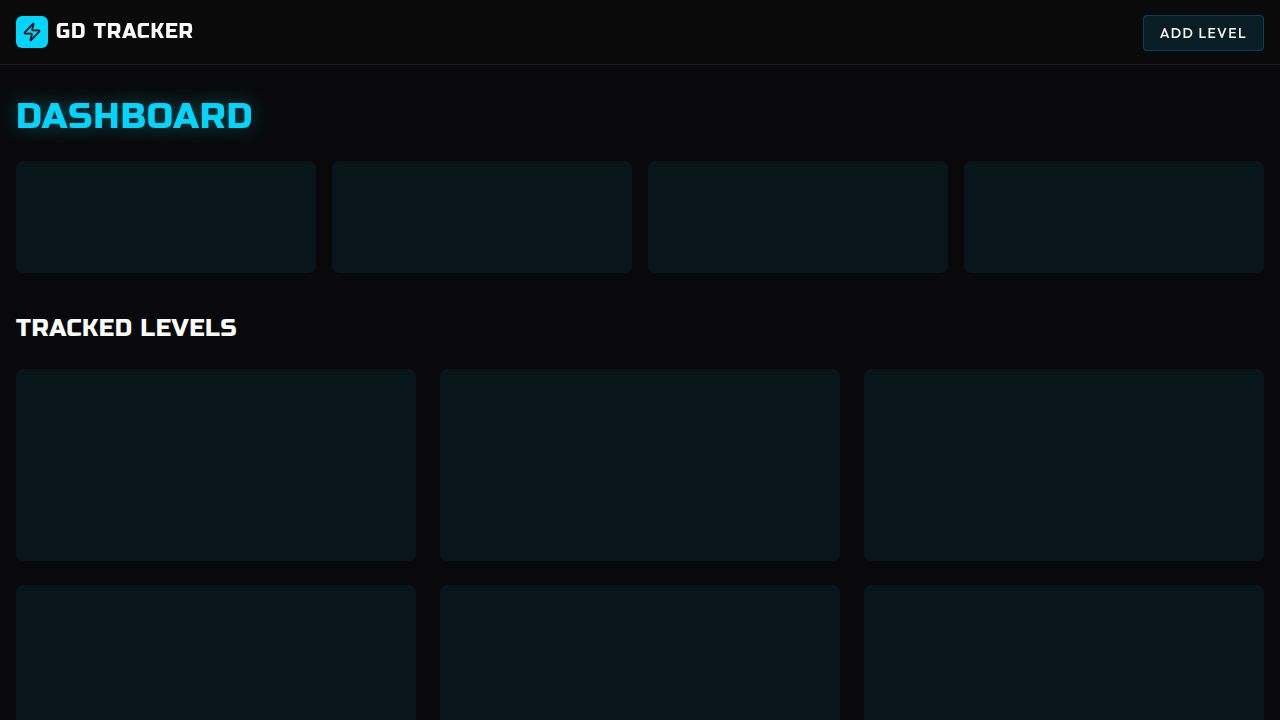
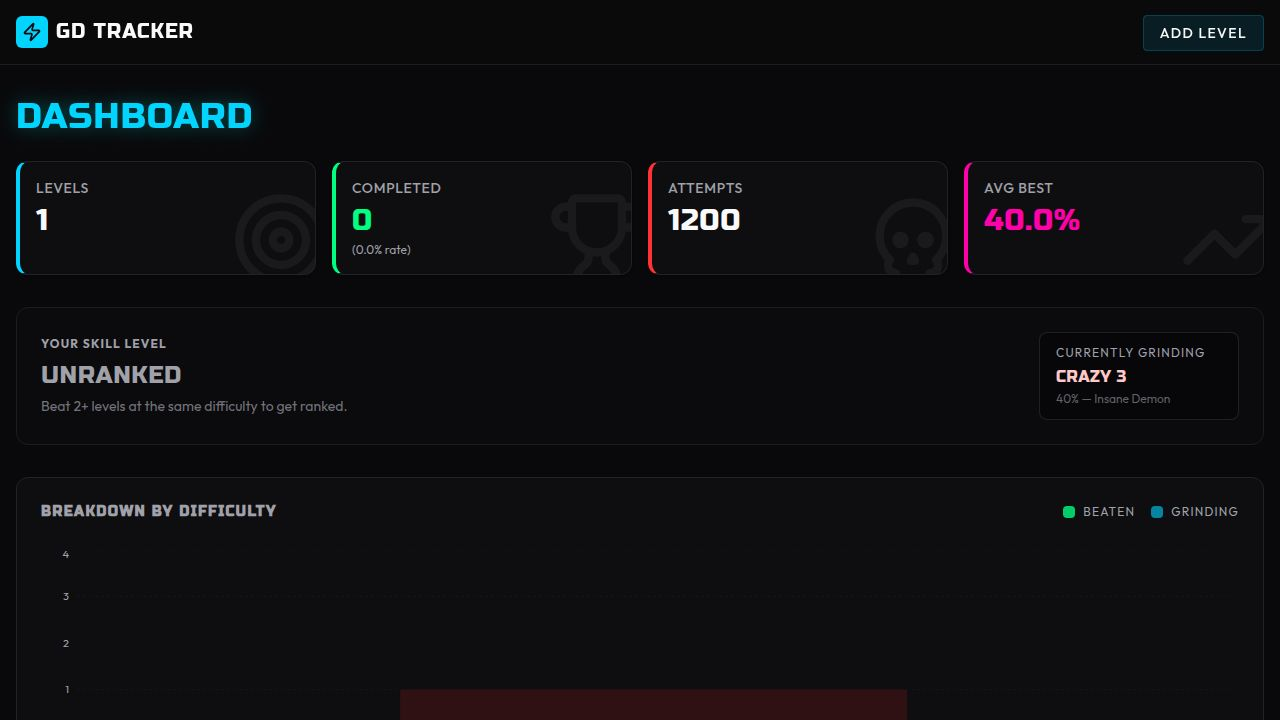
Add delete functionality to level cards and back button to add level page
Implement a delete button on level cards for direct removal and add a "Back to Dashboard" button on the NewLevel page for easier navigation.

Replit-Commit-Author: Agent
Replit-Commit-Session-Id: 0a5a899b-dd4e-4287-b68f-efd19cb1f103
Replit-Commit-Checkpoint-Type: full_checkpoint
Replit-Commit-Event-Id: c5476dd9-5cd5-4e65-bee5-8ab45e2819e8
Replit-Commit-Screenshot-Url: https://storage.googleapis.com/screenshot-production-us-central1/281e8228-58a1-4af7-82b8-7efde34057ee/0a5a899b-dd4e-4287-b68f-efd19cb1f103/FSuPnl9
Replit-Helium-Checkpoint-Created: true

diff --git a/artifacts/gd-tracker/src/components/LevelCard.tsx b/artifacts/gd-tracker/src/components/LevelCard.tsx
@@ -3,47 +3,69 @@ import { Card, CardContent } from "@/components/ui/card";
 import { DifficultyBadge } from "./DifficultyBadge";
 import { ProgressBar } from "./ProgressBar";
 import { Link } from "wouter";
-import { Star, CheckCircle } from "lucide-react";
+import { Star, CheckCircle, Trash2 } from "lucide-react";
 
-export function LevelCard({ level }: { level: Level }) {
+interface LevelCardProps {
+  level: Level;
+  onDelete?: (id: number) => void;
+}
+
+export function LevelCard({ level, onDelete }: LevelCardProps) {
   return (
-    <Link href={`/levels/${level.id}`} className="block group">
-      <Card className="bg-card border-card-border hover:border-primary/50 transition-all duration-300 group-hover:glow-primary relative overflow-hidden">
-        {level.isCompleted && (
-          <div className="absolute top-0 right-0 w-16 h-16 pointer-events-none">
-            <div className="absolute top-4 -right-6 bg-accent text-accent-foreground font-display text-xs px-8 py-1 rotate-45 flex items-center justify-center gap-1 shadow-[0_0_10px_hsl(var(--accent))]">
-              <CheckCircle size={10} /> DONE
+    <div className="relative group">
+      <Link href={`/levels/${level.id}`} className="block">
+        <Card className="bg-card border-card-border hover:border-primary/50 transition-all duration-300 group-hover:glow-primary relative overflow-hidden">
+          {level.isCompleted && (
+            <div className="absolute top-0 right-0 w-16 h-16 pointer-events-none">
+              <div className="absolute top-4 -right-6 bg-accent text-accent-foreground font-display text-xs px-8 py-1 rotate-45 flex items-center justify-center gap-1 shadow-[0_0_10px_hsl(var(--accent))]">
+                <CheckCircle size={10} /> DONE
+              </div>
             </div>
-          </div>
-        )}
-        <CardContent className="p-5">
-          <div className="flex justify-between items-start mb-4">
-            <div>
-              <h3 className="font-display text-xl text-foreground group-hover:text-primary transition-colors">{level.name}</h3>
-              {level.creator && <p className="text-muted-foreground text-sm">by {level.creator}</p>}
+          )}
+          <CardContent className="p-5">
+            <div className="flex justify-between items-start mb-4">
+              <div className="pr-6">
+                <h3 className="font-display text-xl text-foreground group-hover:text-primary transition-colors">{level.name}</h3>
+                {level.creator && <p className="text-muted-foreground text-sm">by {level.creator}</p>}
+              </div>
+              <div className="flex flex-col items-end gap-2">
+                <DifficultyBadge difficulty={level.difficulty} />
+                {level.stars != null && (
+                  <div className="flex items-center text-yellow-400 text-xs font-bold gap-1">
+                    {level.stars} <Star size={12} className="fill-yellow-400" />
+                  </div>
+                )}
+              </div>
             </div>
-            <div className="flex flex-col items-end gap-2">
-              <DifficultyBadge difficulty={level.difficulty} />
-              {level.stars != null && (
-                <div className="flex items-center text-yellow-400 text-xs font-bold gap-1">
-                  {level.stars} <Star size={12} className="fill-yellow-400" />
-                </div>
-              )}
+            
+            <div className="space-y-2 mt-6">
+              <div className="flex justify-between text-sm font-medium">
+                <span className="text-muted-foreground">Progress</span>
+                <span className={level.bestPercent === 100 ? "text-accent" : "text-primary"}>{level.bestPercent}%</span>
+              </div>
+              <ProgressBar value={level.bestPercent} isCompleted={level.isCompleted} />
+              <div className="text-xs text-muted-foreground mt-2 text-right">
+                {level.attempts} attempts
+              </div>
             </div>
-          </div>
-          
-          <div className="space-y-2 mt-6">
-            <div className="flex justify-between text-sm font-medium">
-              <span className="text-muted-foreground">Progress</span>
-              <span className={level.bestPercent === 100 ? "text-accent" : "text-primary"}>{level.bestPercent}%</span>
-            </div>
-            <ProgressBar value={level.bestPercent} isCompleted={level.isCompleted} />
-            <div className="text-xs text-muted-foreground mt-2 text-right">
-              {level.attempts} attempts
-            </div>
-          </div>
-        </CardContent>
-      </Card>
-    </Link>
+          </CardContent>
+        </Card>
+      </Link>
+
+      {onDelete && (
+        <button
+          onClick={(e) => {
+            e.preventDefault();
+            e.stopPropagation();
+            onDelete(level.id);
+          }}
+          className="absolute top-2 left-2 z-10 p-1.5 rounded-md bg-background/80 border border-border text-muted-foreground opacity-0 group-hover:opacity-100 hover:text-destructive hover:border-destructive/50 hover:bg-destructive/10 transition-all duration-150"
+          aria-label="Delete level"
+          data-testid={`button-delete-level-${level.id}`}
+        >
+          <Trash2 size={14} />
+        </button>
+      )}
+    </div>
   );
 }

diff --git a/artifacts/gd-tracker/src/pages/Dashboard.tsx b/artifacts/gd-tracker/src/pages/Dashboard.tsx
@@ -1,5 +1,6 @@
 import { useState, useMemo } from "react";
-import { useGetLevels, useGetStats, type Level } from "@workspace/api-client-react";
+import { useGetLevels, useGetStats, useDeleteLevel, getGetLevelsQueryKey, getGetStatsQueryKey, type Level } from "@workspace/api-client-react";
+import { useQueryClient } from "@tanstack/react-query";
 import { Layout } from "@/components/Layout";
 import { StatsGrid } from "@/components/StatsGrid";
 import { LevelCard } from "@/components/LevelCard";
@@ -15,6 +16,7 @@ import {
   SelectValue,
 } from "@/components/ui/select";
 import { SlidersHorizontal, X } from "lucide-react";
+import { useToast } from "@/hooks/use-toast";
 
 const DIFFICULTIES = [
   "Auto",
@@ -55,6 +57,27 @@ export default function Dashboard() {
   const [completionFilter, setCompletionFilter] = useState<CompletionFilter>("all");
   const [difficultyFilter, setDifficultyFilter] = useState<string>("all");
   const [sortKey, setSortKey] = useState<SortKey>("newest");
+
+  const queryClient = useQueryClient();
+  const { toast } = useToast();
+  const deleteLevel = useDeleteLevel();
+
+  const handleDeleteLevel = (id: number) => {
+    if (!window.confirm("Remove this level from tracking?")) return;
+    deleteLevel.mutate(
+      { id },
+      {
+        onSuccess: () => {
+          queryClient.invalidateQueries({ queryKey: getGetLevelsQueryKey() });
+          queryClient.invalidateQueries({ queryKey: getGetStatsQueryKey() });
+          toast({ title: "Level removed" });
+        },
+        onError: () => {
+          toast({ variant: "destructive", title: "Failed to delete level" });
+        },
+      }
+    );
+  };
 
   const completedParam =
     completionFilter === "completed" ? true :
@@ -209,7 +232,7 @@ export default function Dashboard() {
         ) : levels.length > 0 ? (
           <div className="grid grid-cols-1 md:grid-cols-2 lg:grid-cols-3 gap-6">
             {levels.map((level) => (
-              <LevelCard key={level.id} level={level} />
+              <LevelCard key={level.id} level={level} onDelete={handleDeleteLevel} />
             ))}
           </div>
         ) : (

diff --git a/artifacts/gd-tracker/src/pages/NewLevel.tsx b/artifacts/gd-tracker/src/pages/NewLevel.tsx
@@ -11,6 +11,7 @@ import { Textarea } from "@/components/ui/textarea";
 import { Select, SelectContent, SelectItem, SelectTrigger, SelectValue } from "@/components/ui/select";
 import { Layout } from "@/components/Layout";
 import { useToast } from "@/hooks/use-toast";
+import { ArrowLeft } from "lucide-react";
 
 const formSchema = z.object({
   name: z.string().min(1, "Name is required"),
@@ -70,6 +71,9 @@ export default function NewLevel() {
   return (
     <Layout>
       <div className="max-w-2xl mx-auto">
+        <Button variant="ghost" className="mb-6 text-muted-foreground hover:text-foreground p-0 px-2" onClick={() => setLocation("/")}>
+          <ArrowLeft className="mr-2" size={16} /> Back to Dashboard
+        </Button>
         <h1 className="text-3xl font-display text-primary mb-8 uppercase">Add Level</h1>
         
         <div className="bg-card border border-card-border p-6 rounded-lg shadow-lg">